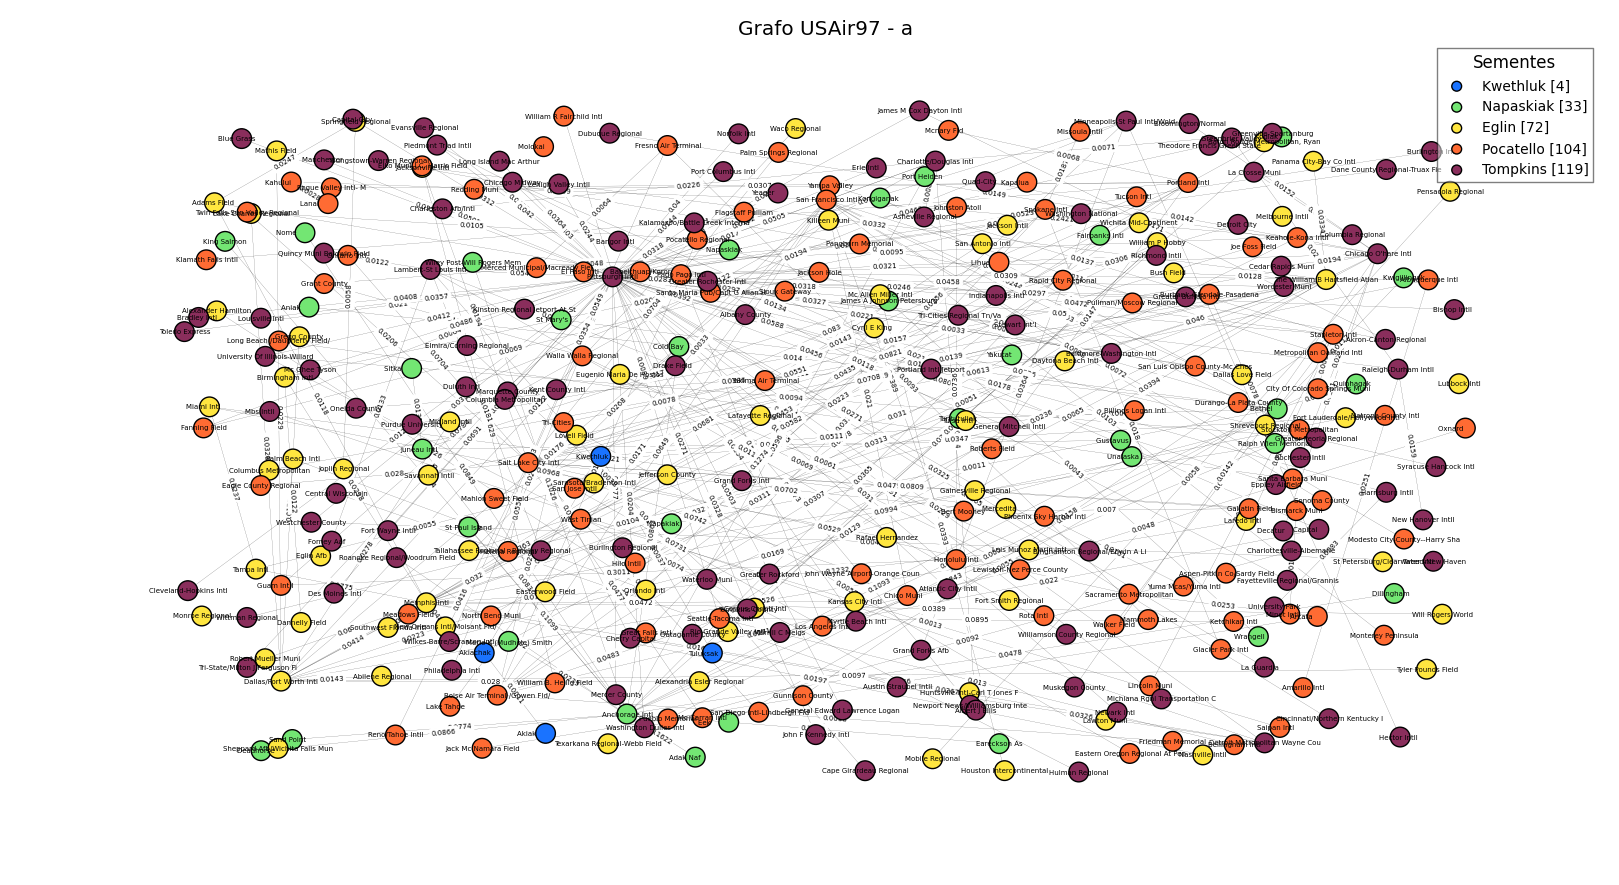
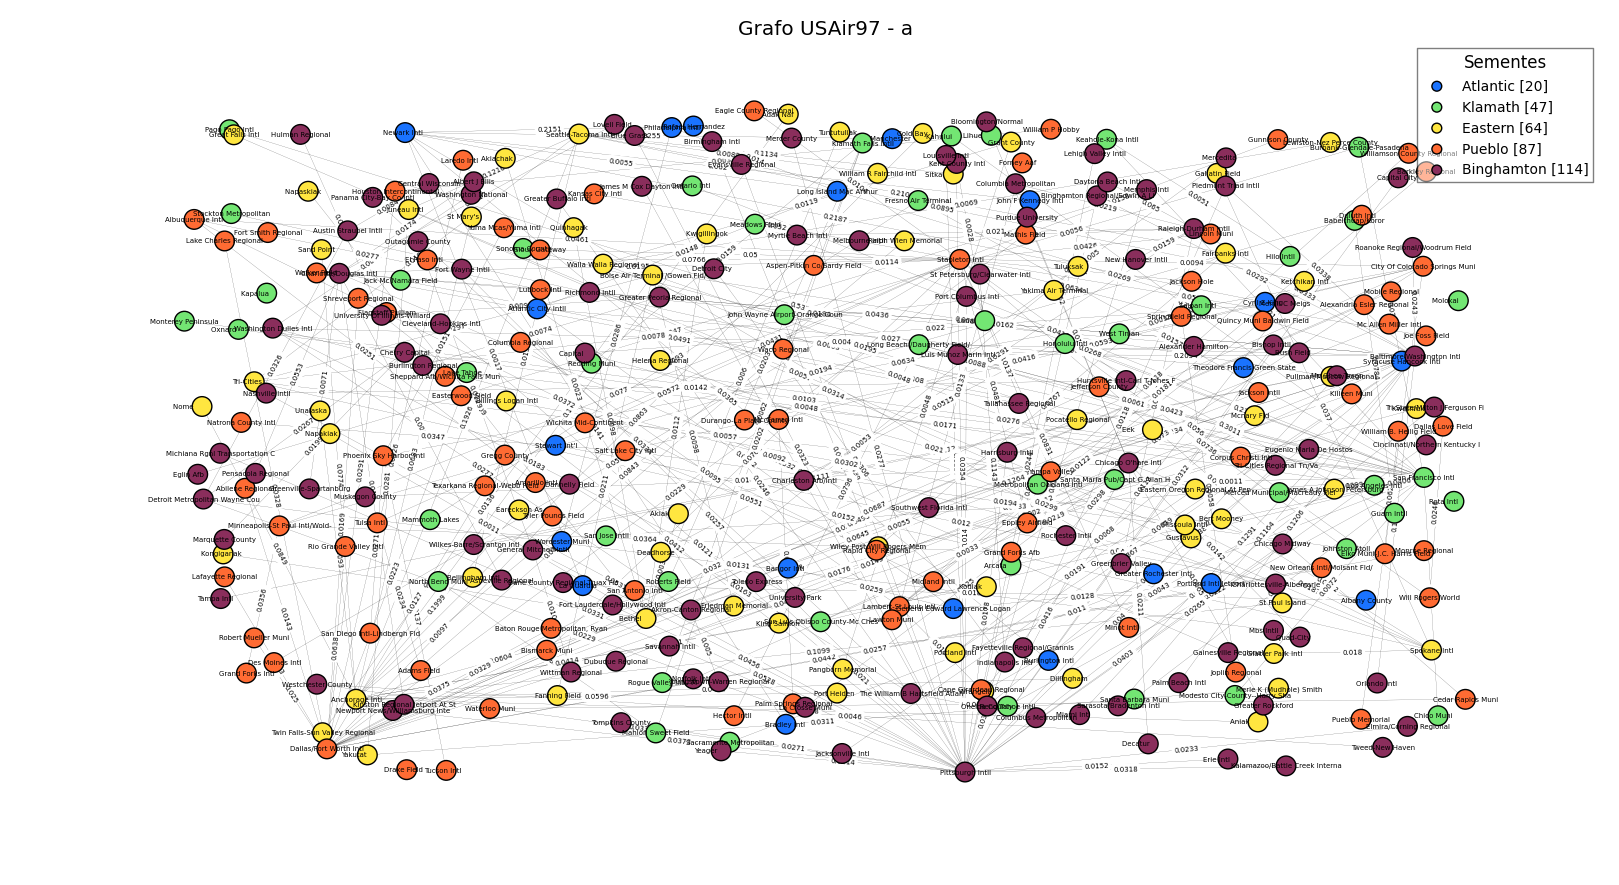
Seeds not being generated properly

Changed region(s): [[0.0926, 0.061, 0.9883, 0.8847]]

diff --git a/src/main.py b/src/main.py
@@ -53,9 +53,6 @@ if __name__ == '__main__':
 
         # Usaremos um vertice aleatorio e um de seus vizinhos como sementes proximas uma da outra
         random_v = np.random.randint(0, len(data['uk12']['grafo'].nodes()))
-        # Nao permite que a semente original seja uma das ja utilizadas para o a
-        while random_v in data['uk12']['a']['seeds']:
-            random_v = np.random.randint(0, len(data['uk12']['grafo'].nodes()))
 
         data['uk12']['b']['seeds'] = ([random_v,
                      data['uk12']['grafo'].neighbors(random_v)
@@ -93,11 +90,17 @@ if __name__ == '__main__':
             data['wg59']['a']['seeds'].append(random_v)
 
         # Primeira semente inserida na lista
+        random_v = np.random.randint(0, len(data['wg59']['grafo'].nodes()))
+
+        vizinhos = data['wg59']['grafo'].neighbors(random_v)
+        while len(vizinhos) < 2:
+            random_v = np.random.randint(0, len(data['wg59']['grafo'].nodes()))
+            vizinhos = data['wg59']['grafo'].neighbors(random_v)
+
         data['wg59']['b']['seeds'] = [random_v]
 
         # Proximas duas sementes
         for i in range(0, 2):
-            vizinhos = data['wg59']['grafo'].neighbors(random_v)
             random_v = vizinhos[np.random.randint(0, len(vizinhos))]
             # Enquanto o valor random ja estiver na lista de sementes selecionadas para b
             while random_v in data['wg59']['b']['seeds']:
@@ -139,6 +142,11 @@ if __name__ == '__main__':
 
         # Primeira semente inserida na lista
         random_v = np.random.randint(0, len(data['usair97']['grafo'].nodes()))
+
+        vizinhos = data['usair97']['grafo'].neighbors(random_v)
+        while len(vizinhos) < 2:
+            random_v = np.random.randint(0, len(data['usair97']['grafo'].nodes()))
+            vizinhos = data['usair97']['grafo'].neighbors(random_v)
 
         data['usair97']['b']['seeds'] = [random_v]
 
